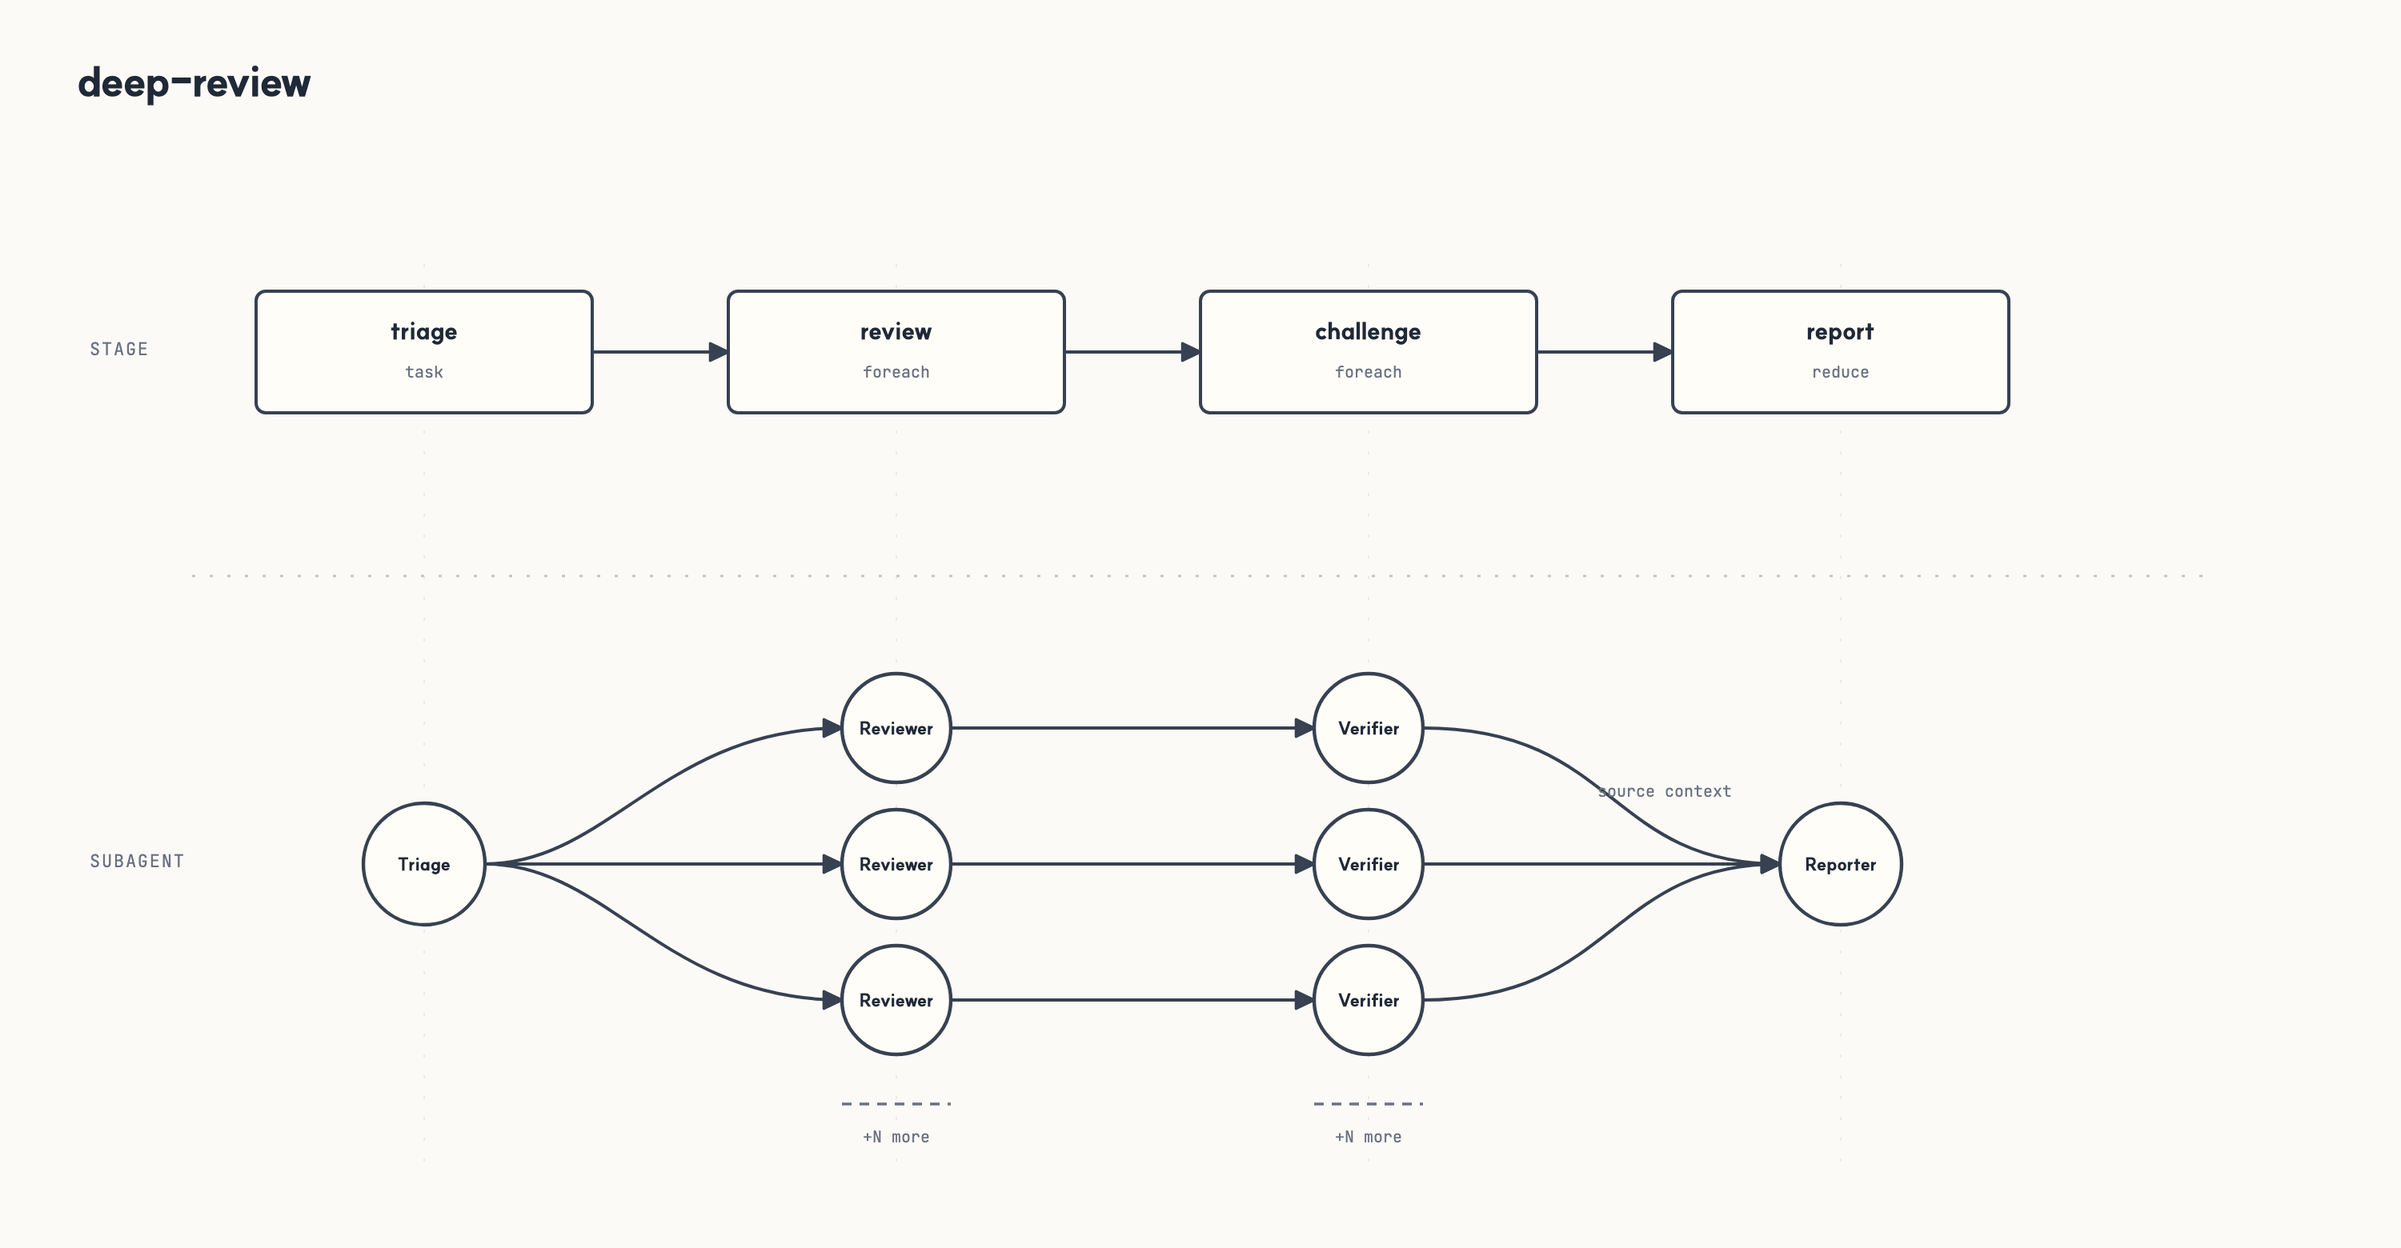
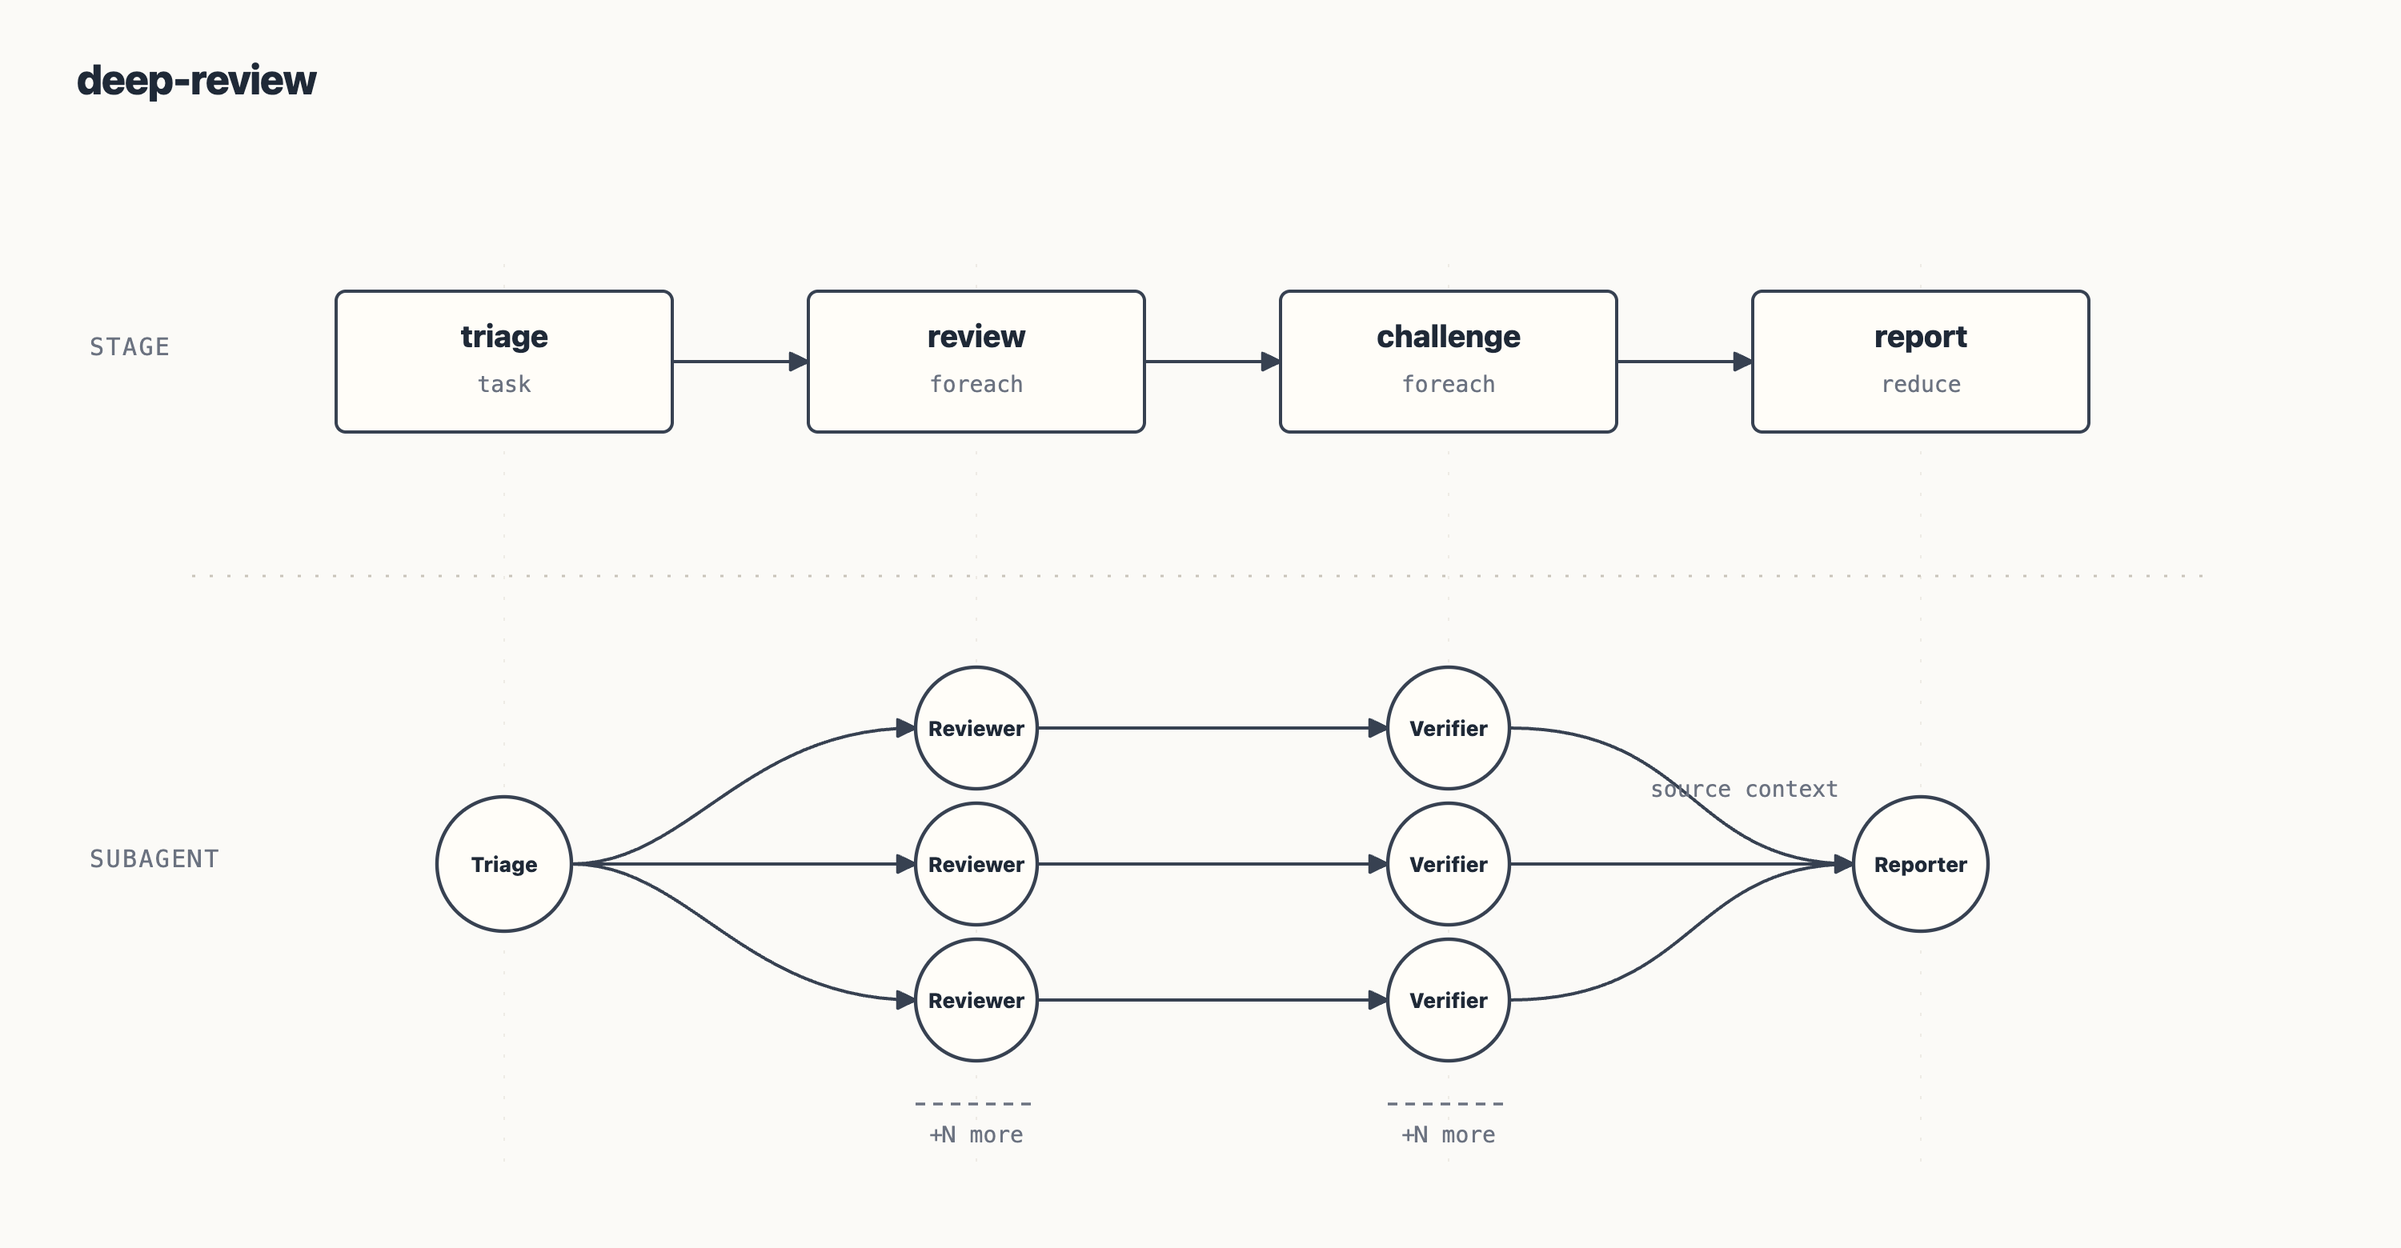
docs: document workflow board

diff --git a/docs/usage.md b/docs/usage.md
@@ -34,13 +34,39 @@ Terminal CLI:
 pi-workflow inspect <run-id-or-prefix> [--failures] [--results] [--json]
 ```
 
-`/workflow` with no arguments displays help. It does not currently open a board UI.
+`/workflow` with no arguments opens the read-only workflow board TUI. `/workflow <run-id>` opens the board focused on that run.
+
+## Natural-language invocation
+
+The extension also registers two LLM-callable tools for normal chat requests:
+
+| Tool | Purpose |
+|---|---|
+| `workflow_list` | List discoverable workflows when the user asks what exists or asks Pi to choose without naming one. |
+| `workflow_run` | Start a run when the user explicitly asks to use/run/start a named workflow and provides a concrete task. |
+
+Examples:
+
+```text
+Use the deep-research workflow to research this repository's architecture tradeoffs.
+```
+
+```text
+deep-review workflow로 현재 diff를 reliability/test coverage 관점에서 리뷰해줘.
+```
+
+Natural-language invocation uses the same workflow resolution roots and task-required rule as `/workflow run`. If the workflow name or concrete task is missing, Pi should ask a clarifying question instead of launching a run. The deterministic manual equivalent is:
+
+```text
+/workflow run deep-research "Research this repository's architecture tradeoffs."
+```
 
 ## Commands
 
 | Command | Purpose |
 |---|---|
-| `/workflow` or `/workflow help` | Show help. |
+| `/workflow` or `/workflow <run-id>` | Open the read-only workflow board TUI. With a run id or prefix, focus that run. Falls back to text `status` output in `--print` mode or when no TUI is available. |
+| `/workflow help` | Show help. |
 | `/workflow list` | List workflow specs discoverable from the current project and installed package. |
 | `/workflow validate <workflow-name-or-path>` | Load and compile a workflow without starting a run. Reports blocked permission previews and warnings. |
 | `/workflow roles <workflow-name-or-path>` | Show the compiled role context included for each workflow role. |
@@ -52,7 +78,7 @@ pi-workflow inspect <run-id-or-prefix> [--failures] [--results] [--json]
 | `/workflow wait <run-id> [timeout-ms]` | Poll until the run finishes or the optional timeout elapses. |
 | `/workflow resume <run-id>` | Resume a failed or interrupted run: completed tasks are preserved; failed/interrupted/skipped tasks reset to pending and reschedule. Loop workflows are not supported yet. |
 
-Not implemented: `/workflow view`, `/workflow continue`, `/workflow delegate`, and a `/workflow` board. Use `status`, `show`, `logs`, `wait`, `resume`, and `pi-workflow inspect` instead. The standalone CLI also offers `pi-workflow supervise <run-id>|--all` to drive scheduling from outside a Pi session (unfinished failed/interrupted runs within the last 7 days are announced at session start with resume hints).
+Not implemented: `/workflow continue` and `/workflow delegate`. Use `status`, `show`, `logs`, `wait`, `resume`, and `pi-workflow inspect` for text/CLI inspection. The standalone CLI also offers `pi-workflow supervise <run-id>|--all` to drive scheduling from outside a Pi session (unfinished failed/interrupted runs within the last 7 days are announced at session start with resume hints).
 
 ## Workflow resolution
 
@@ -72,7 +98,7 @@ Name refs are resolved from these roots:
 3. bundled package `workflows/`
 4. `~/.pi/agent/workflows/`
 
-Runnable workflow discovery currently supports `.json` spec files. The low-level loader can parse `.yaml`/`.yml`, but named workflow discovery and bundled workflow resolution are JSON-only.
+Workflow specs are JSON-only. Use `.json` for direct path refs, named discovery, and bundle `spec.json` files; `.yaml` and `.yml` workflow specs are not supported.
 
 A workflow can be a direct spec path, but bundled reusable workflows should use directory bundles:
 
@@ -131,7 +157,7 @@ Public `schemaVersion: 1` workflows use `artifactGraph.stages` as the only autho
 Public workflow definitions separate three layers:
 
 - **Workflow layer**: graph/control/data-dependency fields such as `id`, `from`, `after`, `sourcePolicy`, `sourceProjection`, scheduling, and artifacts.
-- **Subagent layer**: child Pi/model worker shapes: `task`, `foreach`, `reduce`, and `loop`.
+- **Subagent layer**: child Pi/model worker shapes: `single`, `foreach`, `reduce`, and `loop`.
 - **Support layer**: local helper execution through a stage that declares a `support` object.
 
 Every subagent stage writes artifact bundles:
@@ -143,14 +169,14 @@ Every subagent stage writes artifact bundles:
 
 | Node | Layer | Data behavior |
 |---|---|---|
-| `type: "task"` | Subagent | One focused subagent prompt. |
+| `type: "single"` | Subagent | One focused subagent prompt. |
 | `type: "foreach"` | Subagent/control | Reads an array from an upstream `control.json` simple dot path and materializes one task per item. |
 | `type: "reduce"` | Subagent | Fan-in over upstream artifact handles and optional `sourceProjection` inline control snippets. |
 | `type: "loop"` | Workflow/control | Repeats fixed child stages until deterministic `until`, `maxRounds`, or no-progress stop. Loop conditions read child `control.json`. |
 | `type: "dag"` | Workflow/control | Composite container; lowers child stages to namespaced tasks and exposes an `outputFrom` child downstream. |
 | `support: { uses }` | Support | Runs a directory-local `.mjs` helper over selected upstream `control.json` values and writes a workflow artifact bundle. |
 
-Use `foreach.from` for dynamic fan-out, `reduce.from` for subagent fan-in, and support `from` for local helper inputs. Do not rely on a later plain `task` to see previous stage output.
+Use `foreach.from` for dynamic fan-out, `reduce.from` for subagent fan-in, and support `from` for local helper inputs. Do not rely on a later plain `single` stage to see previous stage output.
 
 ### DAG authoring
 
@@ -159,7 +185,7 @@ Top-level `artifactGraph.stages` is DAG-capable by default. A nested `type: "dag
 Keep these layers distinct:
 
 - **Workflow layer**: graph/control/data-dependency semantics such as `id`, `from`, `after`, `sourcePolicy`, `sourceProjection`, scheduling, and artifacts.
-- **Subagent layer**: model-backed execution patterns such as `task`, `foreach`, `reduce`, and loop child tasks.
+- **Subagent layer**: model-backed execution patterns such as `single`, `foreach`, `reduce`, and loop child stages.
 - **Support layer**: deterministic local helper execution through `support: { uses, options }`.
 
 DAG rules:
@@ -170,7 +196,7 @@ DAG rules:
 - Parse-time graph validation rejects unknown stage references, self-dependencies, duplicate stage ids, dependency cycles, unsupported output fields, and unsafe `controlSchema` paths.
 - `inputPolicy.requiredReads` is fail-closed: if declared, the task must read each listed `source.artifact` via `workflow_artifact` before its final output is accepted. Direct repo `read`/`grep` calls do not satisfy this proof; the ledger proves artifact access, not semantic use. DAG container outputs use the selected child source name, for example `analysis.final.analysis` for `id: "analysis", outputFrom: "final"`.
 - `sourceProjection.include` can inline small selected simple dot paths from upstream `control.json` (for example `$.digest` or `$.items`); full artifacts remain available through `workflow_artifact`.
-- A `type: "dag"` stage may contain `task`, `foreach`, `reduce`, support nodes, or nested `dag` stages. Loops are top-level workflow/control stages in v1. Child `from`/`after` references resolve only to siblings inside the same container.
+- A `type: "dag"` stage may contain `single`, `foreach`, `reduce`, support nodes, or nested `dag` stages. Loops are top-level workflow/control stages in v1. Child `from`/`after` references resolve only to siblings inside the same container.
 - `outputFrom` names the child whose task keys represent the container for downstream `from: "containerId"` edges. If omitted, exactly one sink child defaults as the output; multiple sink children require explicit `outputFrom`.
 
 Example diamond plus a DAG container consumed downstream:
@@ -187,7 +213,7 @@ Example diamond plus a DAG container consumed downstream:
     "stages": [
       {
         "id": "plan",
-        "type": "task",
+        "type": "single",
         "prompt": "Put machine-readable JSON in <control> with an items array."
       },
       {
@@ -198,7 +224,7 @@ Example diamond plus a DAG container consumed downstream:
       },
       {
         "id": "review",
-        "type": "task",
+        "type": "single",
         "after": "plan",
         "prompt": "Run an independent review after planning finishes."
       },
@@ -215,8 +241,8 @@ Example diamond plus a DAG container consumed downstream:
         "from": "merge",
         "outputFrom": "final",
         "stages": [
-          { "id": "scan", "type": "task", "prompt": "Scan the merged findings." },
-          { "id": "review", "type": "task", "after": "scan", "prompt": "Review after the scan without scan output context." },
+          { "id": "scan", "type": "single", "prompt": "Scan the merged findings." },
+          { "id": "review", "type": "single", "after": "scan", "prompt": "Review after the scan without scan output context." },
           { "id": "final", "type": "reduce", "from": ["scan", "review"], "prompt": "Summarize the analysis children." }
         ]
       },
@@ -372,7 +398,7 @@ Project workflows should live in:
 Authoring checklist:
 
 1. Start from a bundled workflow when one fits.
-2. Decide the workflow graph first: subagent stages (`task`, `foreach`, `reduce`, `loop`), `dag` containers, and support nodes when deterministic local helper code is needed.
+2. Decide the workflow graph first: subagent stages (`single`, `foreach`, `reduce`, `loop`), `dag` containers, and support nodes when deterministic local helper code is needed.
 3. Make every data dependency explicit with `foreach.from`, `reduce.from`, or support `from`.
 4. Keep read-only workflows read-only.
 5. For write-capable workflows, choose a worktree policy and validation stage.

diff --git a/README.md b/README.md
@@ -39,18 +39,24 @@ Requires Node.js `>=22.19.0` on macOS or Linux. Native Windows is not supported;
 
 ## Usage: ask naturally
 
-After installation, ask Pi to use a bundled or project workflow by name. Bundled workflows reference common Pi agents such as `scout` and `researcher`; create or install matching agents in your Pi environment before running them.
+After installation, ask Pi to use a bundled or project workflow by name. The package exposes `workflow_list` and `workflow_run` tools so Pi can discover workflows and start a run from an explicit natural-language request. Bundled workflows reference common Pi agents such as `scout` and `researcher`; create or install matching agents in your Pi environment before running them.
 
 ```text
 Use the bundled deep-research workflow to research this repository and summarize the architecture tradeoffs.
 ```
 
 ```text
-Use the bundled deep-review workflow to review the current diff from multiple angles.
+Deep-review workflow로 현재 diff를 여러 관점에서 리뷰해줘.
 ```
 
 ```text
 Use the spec-review workflow to compare docs/API_SPEC.md against the implementation and tests.
+```
+
+If you want deterministic manual control, use the slash command form:
+
+```text
+/workflow run deep-research "Research this repository and summarize the architecture tradeoffs."
 ```
 
 ## Usage: create your own workflows
@@ -99,7 +105,7 @@ A small workflow definition looks like this:
     "stages": [
       {
         "id": "plan",
-        "type": "task",
+        "type": "single",
         "prompt": "Put machine-readable JSON in <control> with an items array."
       },
       {
@@ -125,21 +131,21 @@ A small workflow definition looks like this:
 }
 ```
 
-## Supported task patterns
+## Supported stage patterns
 
-Workflow definitions compose a small set of task patterns and graph shapes.
+Workflow definitions compose a small set of stage patterns and graph shapes.
 
 | Pattern | Use it for | Runtime shape |
 |---|---|---|
-| `task` | One focused step | one prompt -> one subagent |
+| `single` | One focused step | one prompt -> one subagent |
 | `foreach` | Dynamic fan-out | JSON array from an upstream control artifact -> one subagent per item |
 | `reduce` | Fan-in / synthesis | upstream workflow artifacts -> one synthesis subagent |
 | `loop` | Bounded repetition | repeat child stages until a deterministic stop condition |
 | `dag` | Nested graph container | child stages lowered to namespaced tasks; selected output exposed downstream |
 
-![Core workflow stage shapes](./docs/assets/readme/stage-types.png)
+![Core workflow stage shapes: single, foreach, reduce, loop, and dag](./docs/assets/readme/stage-types.png)
 
-Parallel execution is a graph shape, not a stage type: model parallel branches as multiple roots or with `after: []`. Support helpers are declared with a `support` object, not a task `type`.
+Parallel execution is a graph shape, not a stage type: model parallel branches as multiple roots or with `after: []`. Support helpers are declared with a `support` object, not a stage `type`.
 
 ## Predefined workflows
 
@@ -161,6 +167,18 @@ The package includes a small starter set. These are practical defaults and autho
 ![Impact review workflow flow](./docs/assets/readme/impact-review-flow.png)
 
 Most teams should create project-specific workflows as their patterns settle.
+
+## Workflow board
+
+After starting a run, open `/workflow` to inspect it in a read-only TUI. Browse runs, drill into stages and tasks, and preview task output without leaving Pi.
+
+![Workflow board: runs list](./docs/assets/readme/workflow-board-runs.png)
+
+![Workflow board: stages view](./docs/assets/readme/workflow-board-stages.png)
+
+![Workflow board: tasks and output preview](./docs/assets/readme/workflow-board-tasks.png)
+
+![Workflow board: task detail](./docs/assets/readme/workflow-board-task-detail.png)
 
 ## More
 

diff --git a/skills/workflow-guide/SKILL.md b/skills/workflow-guide/SKILL.md
@@ -20,7 +20,7 @@ Resolve paths relative to this skill directory. Treat those docs as the source o
 
 - Prefer a bundled workflow before inventing a new topology.
 - Public `schemaVersion: 1` workflow specs use `artifactGraph.stages`.
-- Stage order controls scheduling only; it does **not** pass prior output into a later plain `task` stage.
+- Stage order controls scheduling only; it does **not** pass prior output into a later plain `single` stage.
 - If a stage needs prior artifacts, use `reduce.from`, `foreach.from`, or support `from`.
 - For dynamic fan-out, use `foreach.from` with a simple dot path into upstream `control.json`.
 - For synthesis/fan-in, use `reduce.from` and require/encourage `workflow_artifact` reads for detailed upstream artifacts.
@@ -31,6 +31,7 @@ Resolve paths relative to this skill directory. Treat those docs as the source o
 - Write-capable workflows need explicit worktree policy, validation/check stages, and protected-path awareness.
 - In non-git workspaces with `worktreePolicy: "off"`, writes mutate the live directory.
 - Project workflows should be saved under `.pi/workflows/<name>.json` or a bundle directory with `spec.json`, schemas, and helpers.
+- For natural-language execution of existing workflows, prefer `workflow_list` and `workflow_run` when those tools are available; use `/workflow ...` commands as the deterministic manual fallback.
 - Always run `/workflow validate <workflow-or-file>` before handing off or running a reusable workflow.
 
 ## Intake (run before authoring when the request is ambiguous)
@@ -38,7 +39,7 @@ Resolve paths relative to this skill directory. Treat those docs as the source o
 When the request is vague, broad, delegated ("just pick a good one"), or self-contradictory, do not write a spec yet. Clarify and recommend first, then build collaboratively.
 
 1. Do not generate a spec on an underspecified request. Surface what is missing instead of guessing.
-2. Survey existing options with `/workflow list` and read each candidate's `description` and stage graph; present the top candidates and what each is for.
+2. Survey existing options with `workflow_list` when available, otherwise `/workflow list`, and read each candidate's `description` and stage graph; present the top candidates and what each is for.
 3. Ask the user the decisions that determine the graph, only the ones still unknown:
    - What is inspected/produced, and what decision does the output support?
    - Read-only review/research, or write-capable (managed worktree)?
